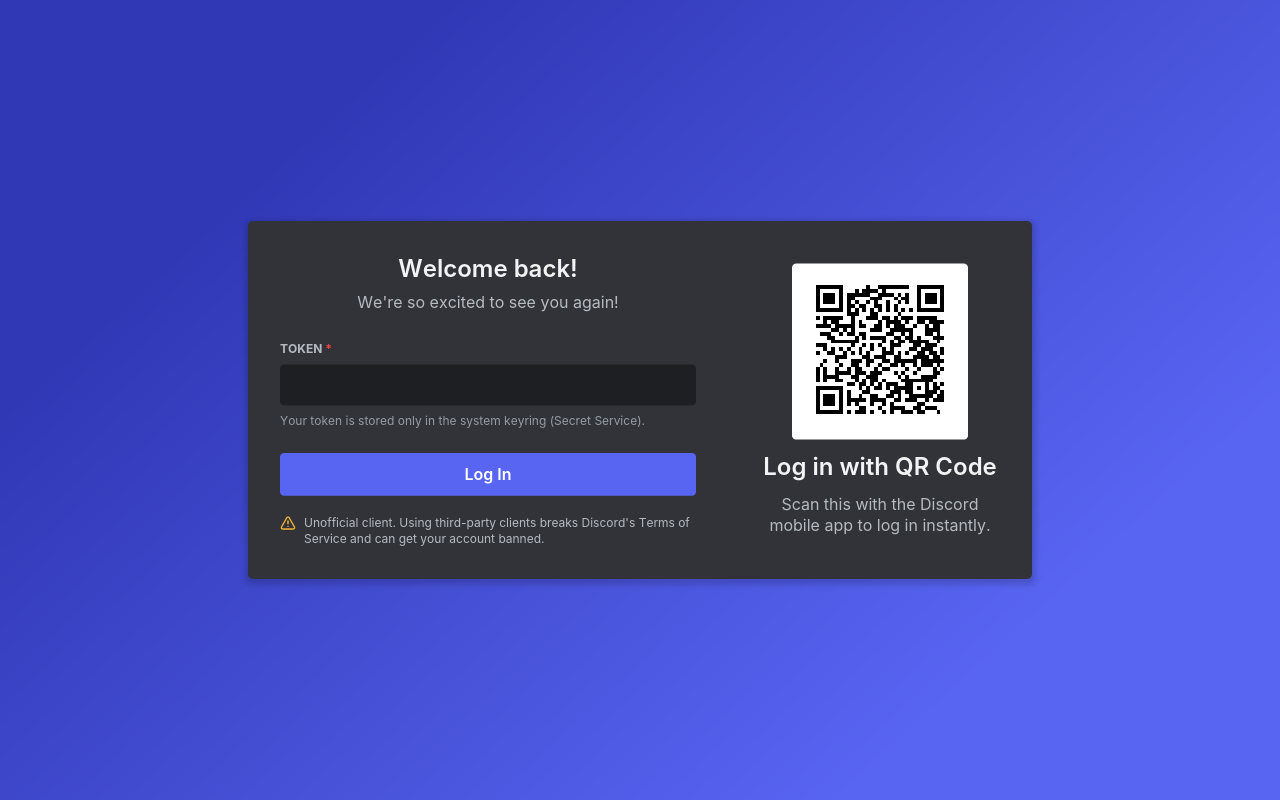
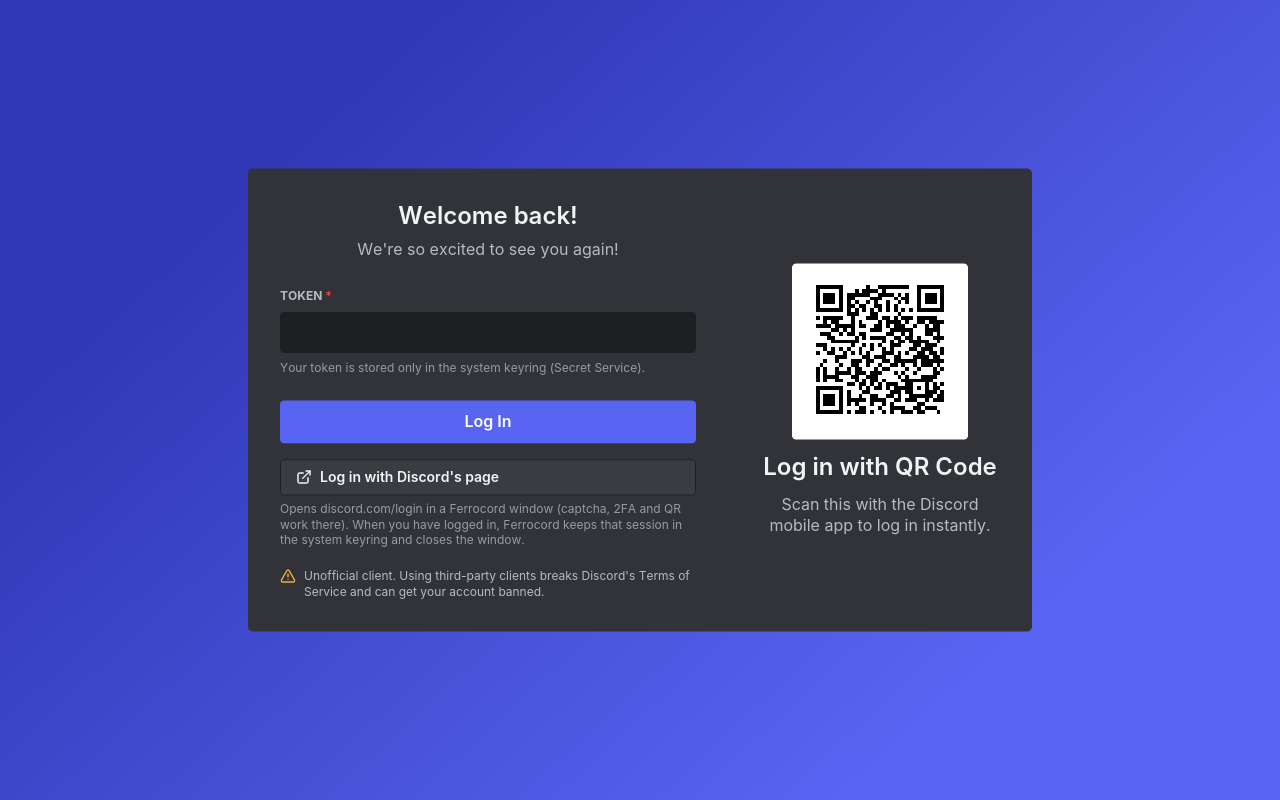
docs, ci: document the captcha root cause and ship the login helper
CI installs libwebkit2gtk-4.1-dev and checks that only ferrocord-login
links WebKitGTK; releases ship the helper on Linux and Windows; install.sh
installs it and warns when WebKitGTK 4.1 is missing. New mock screenshots
of the login states.

Claude-Session: https://claude.ai/code/session_011GZUAJAc8TohrBZJFGozGm

diff --git a/docs/protocol.md b/docs/protocol.md
@@ -38,7 +38,7 @@ states or remote auth.
 |---|---|---|---|
 | 0 | DISPATCH | ← | Tracks `s`; parsed by `types::parse_dispatch`. |
 | 1 | HEARTBEAT | ↔ | Sent every `heartbeat_interval`; answered immediately when the server asks. |
-| 2 | IDENTIFY | → | Token, `capabilities`, `properties` (honest: `browser = "Ferrocord"`), presence. |
+| 2 | IDENTIFY | → | Token, `capabilities`, `properties` (honest: `browser = "Ferrocord"`; same object as `X-Super-Properties`), presence. |
 | 3 | PRESENCE_UPDATE | → | Own status (`online`/`idle`/`dnd`/`invisible`); also saved with `PATCH /users/@me/settings`. |
 | 14 | GUILD_SUBSCRIPTIONS | → | Member list ranges `{guild_id, typing, threads, channels: {id: [[0,99]]}}`, sent while the member sidebar is open. |
 | 6 | RESUME | → | `{ token, session_id, seq }` on the `resume_gateway_url`. |
@@ -107,7 +107,26 @@ so no ISO-8601 parsing is needed on the hot path.
 
 Base: `https://discord.com/api/v9` (`FERROCORD_API_URL`). Header
 `Authorization: <token>` (user tokens have no `Bot ` prefix) and an honest
-`User-Agent: Ferrocord/<version>`.
+`User-Agent: Ferrocord/<version>`. Every request also carries the headers the
+official clients send (`net/identity.rs`), with honest values:
+
+| Header | Value |
+|---|---|
+| `X-Super-Properties` | base64 of the same JSON as IDENTIFY's `properties`: `os` (`Windows`/`Linux`), `browser: "Ferrocord"`, `device: ""`, `system_locale`, `browser_user_agent` (= the `User-Agent`), `browser_version`, `os_version` (kernel release on Linux), `release_channel: "stable"`, `client_version`. No `client_build_number`: Ferrocord does not claim to be Discord's build. |
+| `X-Discord-Locale` | system UI language (`en-US`, `sys-locale`) |
+| `X-Discord-Timezone` | IANA zone (`Europe/Madrid`, `iana-time-zone`), omitted if unknown |
+| `Cookie` | what Discord sets (`__dcfduid`, `__sdcfduid`, `__cfruid`), in-memory jar, never written to disk |
+
+While logged out, `GET /experiments` gives a `fingerprint` that the login
+calls send as `X-Fingerprint` (the official client does the same).
+
+**Captcha.** A 400 body with `captcha_key` becomes
+`Error::CaptchaRequired(CaptchaChallenge)` (`net/captcha.rs`: `captcha_key`,
+`captcha_sitekey`, `captcha_service`, `captcha_rqdata`, `captcha_rqtoken`,
+`captcha_session_id`; lenient, size-capped, header-safe). A retry carries the
+user's solution as `X-Captcha-Key` plus `X-Captcha-Rqtoken` /
+`X-Captcha-Session-Id` (`CaptchaSolution::headers`), exactly the official
+client's retry. Ferrocord never solves a captcha and uses no solver service.
 
 | Call | Endpoint |
 |---|---|
@@ -123,7 +142,8 @@ Base: `https://discord.com/api/v9` (`FERROCORD_API_URL`). Header
 | Upload | `POST .../messages` `multipart/form-data`: `payload_json` + `files[n]`, streamed from disk with an explicit `Content-Length` |
 | Status | `PATCH /users/@me/settings {status}` |
 | Mark read | `POST /channels/{c}/messages/{m}/ack` `{ token: null }` |
-| QR ticket | `POST /users/@me/remote-auth/login` `{ ticket }` |
+| QR ticket | `POST /users/@me/remote-auth/login` `{ ticket }` with `X-Fingerprint` |
+| Fingerprint | `GET /experiments` (logged out) → `fingerprint` |
 | GIF picker | `GET /gifs/trending-gifs` / `GET /gifs/search?q=` with `media_format=mp4&provider=tenor&locale=en-US`; picking sends the Tenor `url` as text (shown back as a `gifv` embed) |
 | Sticker | `POST .../messages` `{ content: "", nonce, sticker_ids: [id] }` |
 | Media | CDN `avatars/`, `icons/`, `emojis/`, `stickers/{id}.png\|.gif?size=160`, attachment `proxy_url?width=&height=`; GIF picker previews from `media.tenor.com` (HTTPS, never with the token) |
@@ -162,9 +182,61 @@ it. Failures turn it red with "Message could not be delivered.".
 8. ← `cancel` when declined on the phone; the socket closes at `timeout_ms`.
 
 Client heartbeats are `{ "op": "heartbeat" }`. The protocol is implemented
-and tested end to end against a local mock (`tests/mock_remote_auth.rs`);
-it has **not** been verified against the real service (no account here),
-and Discord may require a captcha for the ticket exchange in some regions.
+and tested end to end against a local mock (`tests/mock_remote_auth.rs`).
+`v=2` and the `Origin` match the official web client.
+
+### Captcha on the QR login
+
+Users reported "QR login unavailable — Discord wants you to solve a captcha".
+The only REST call of the QR flow is the ticket exchange, so that is where
+Discord asks (the gateway itself cannot answer with a captcha). Before v0.12
+that request was much barer than the official client's: no
+`X-Super-Properties`, no `X-Fingerprint` (no `GET /experiments` first), no
+Discord cookies, no locale/time zone: all signals Discord's risk scoring
+uses on the request that creates a new session. Those are now sent (above).
+Discord can still demand a captcha (new IP, VPN, account history), so:
+
+1. `RaEvent::CaptchaRequired` replaces the dead-end error;
+2. the app opens **Discord's own login page** (§4.1) automatically. The ticket
+   is bound to the QR socket and the challenge only works on discord.com, so
+   the user finishes there (scan again, or email + password) and solves the
+   captcha Discord shows.
+
+### 4.1 Log in with Discord's page (`auth/web_login.rs`, `ferrocord-login`)
+
+Also a button on the login screen. The `ferrocord-login` helper (a separate
+binary: the app links no browser engine) opens `https://discord.com/login` in
+the system webview via `wry`/`tao`: WebView2 on Windows, WebKitGTK 4.1 on
+Linux. Options considered:
+
+| Option | Verdict |
+|---|---|
+| (a) our own page with the hCaptcha widget (Discord's sitekey + rqdata) in a webview | Rejected: hCaptcha only runs on the sitekey's allowed domains; a `file://`, custom-scheme or `127.0.0.1` page fails its hostname check, and making it pass would mean faking the origin. |
+| (c) the same page in the system browser on a loopback callback | Rejected for the same reason (localhost is not Discord's domain). |
+| (b) Discord's own login page in a webview | **Chosen**: the user sees exactly Discord's pages; captcha, 2FA, passkeys and its QR code all work as in a browser, with no Ferrocord code in the loop. |
+
+* Profile: incognito, inside a fresh `0700` temp directory
+  (`FERROCORD_LOGIN_DATA_DIR`); the app wipes it after the helper exits (with
+  retries: WebView2 child processes hold files briefly).
+* Navigation: top-level HTTPS only; pop-ups refused. The browser's own
+  User-Agent is untouched.
+* Token: a document-start script, active only in the top-level
+  `https://discord.com` document, keeps a reference to the page's
+  `localStorage` and posts the `token` the page stores after the user logged
+  in, once, over wry IPC. The helper re-checks the sender URL and the token
+  shape, prints it on its stdout pipe and exits. The script only reads.
+* App side: the token is validated with `GET /users/@me` and stored only in
+  the keyring, like a QR login.
+* Wire format (stdout lines): `{"type":"ready"}`, `{"type":"token","token"}`,
+  `{"type":"closed"}`, `{"type":"error","code":"no-webview"|"failed","message"}`.
+* Missing engine: Linux loader errors (`libwebkit2gtk-4.1.so.0`, exit 127)
+  and WebView2 creation errors become "needs WebKitGTK 4.1 / WebView2" with
+  package names; QR login keeps working.
+
+Verified in CI: parsing, headers, retry headers, the state machine and the
+helper protocol (with fake helpers), and that only `ferrocord-login` links
+WebKitGTK. Needs a real account: Discord's page, its captcha and the token
+hand-over.
 
 ## 5. Read states, unread and mentions (`app/state.rs`)
 

diff --git a/README.md b/README.md
@@ -55,15 +55,20 @@ Expand-Archive ferrocord-*-windows-x86_64.zip .
 .errocord-*-windows-x86_64errocord.exe
 ```
 
-The token is stored in Windows Credential Manager. The Windows build has no
+The zip has `ferrocord.exe` and `ferrocord-login.exe` (Discord's login page in
+WebView2); keep them together. The token is stored in Windows Credential
+Manager. The Windows build has no
 tray icon, single-instance lock or autostart yet, and notification clicks do
 not open the channel. To build it yourself install Rust (MSVC toolchain) and
 run `cargo build --release`.
 
 ## Features
 
-- Token login (token stored only in the OS keyring) and QR-code login
-  (remote auth) using the official mobile app.
+- QR-code login (remote auth) using the official mobile app; "Log in with
+  Discord's page" (discord.com/login in a system webview window, where Discord
+  shows its own captcha, 2FA and QR prompts; opens on its own when Discord
+  asks for a captcha); token login. The session is stored only in the OS
+  keyring.
 - Server rail with unread pills and mention badges, channel list with
   categories, direct messages and group DMs.
 - Message history with Discord markdown (bold, italic, underline, strike,
@@ -92,9 +97,13 @@ run `cargo build --release`.
 
 Requirements: Rust stable (1.88+), and on Linux `pkg-config`, `cmake` and a
 C/C++ compiler (the H.264 decoder is built from source), `libssl-dev`,
-`libdbus-1-dev`, `libxkbcommon-dev`, `libwayland-dev`, `libasound2-dev`.
-`cargo build` builds both `ferrocord` and `ferrocord-player`; the helper must
-sit next to the app (use `--no-default-features` to build without video).
+`libdbus-1-dev`, `libxkbcommon-dev`, `libwayland-dev`, `libasound2-dev`,
+`libwebkit2gtk-4.1-dev` (login helper only).
+`cargo build` builds `ferrocord`, `ferrocord-player` and `ferrocord-login`; the
+helpers must sit next to the app (`--no-default-features` builds neither).
+`ferrocord-login` shows Discord's login page in the system webview: WebView2 on
+Windows (built into Windows 11), WebKitGTK 4.1 on Linux (`libwebkit2gtk-4.1-0`).
+Only the helper links the browser engine; it runs only while you log in.
 
 ```sh
 cargo build --release

diff --git a/LESSONS.md b/LESSONS.md
@@ -42,3 +42,6 @@ Things learned while building Ferrocord that are worth remembering.
 - **text_editor** (multi-line composer): bind Enter via `key_binding` (`Binding::Custom` to send, `Binding::Enter` for Shift+Enter); the stock Up/Enter keys are captured, so the "Up edits last message" shortcut must be a binding too. `text_editor::Cursor` columns are *byte* offsets (a char count panics in cosmic-text and poisons the global font system for every later test). `window::screenshot` replays the last frame, so text set programmatically right before it may not appear: use a real run with xdotool for composer screenshots.
 - **Emoji**: the default font has no colour glyphs. Unicode emoji go in their own spans with the "Noto Color Emoji" family (`ui::emoji_font`, grapheme-cluster segmentation); the bundled font is loaded only when no system copy exists. To test without the system font: `unshare -m` and bind-mount an empty dir over its directory.
 - **Self-playing widgets**: a custom widget can animate without app ticks by handling `window::Event::RedrawRequested(now)` in `update` (store `now` in its tree state, draw from it) and calling `shell.request_redraw_at(next_frame)`; `view()` never runs per frame and tiny-skia's damage tracking repaints only the widget (`ui::anim_image`). Check `layout.bounds().intersects(viewport)` so off-screen widgets stop asking.
+- **Captcha on login**: hCaptcha only runs on its sitekey's domains, so Discord's challenge cannot be rendered on a page of our own (file, custom scheme, loopback) without faking the origin. Showing `https://discord.com/login` itself in the system webview (`ferrocord-login`, `wry`) lets Discord run its own captcha; the page's token is read from its `localStorage` by a document-start script (Discord deletes the global later, so keep a reference at document start).
+- A helper spawned from a libtest binary (fake helpers in tests) starts its stdout after `test name ... ` without a newline: print a newline first, and have line parsers ignore non-JSON lines.
+- `reqwest` needs the `cookies` feature for `cookie_store(true)`; Discord's `__dcfduid`/`__sdcfduid` come back on `GET /experiments`.

diff --git a/CLAUDE.md b/CLAUDE.md
@@ -9,7 +9,7 @@ Video (camera / Go Live) is not implemented yet: see `docs/voice.md` §6.
 
 ## Commands
 - `cargo run -- --mock` — run with mock data (no network, in-memory stores).
-- `cargo run -- --mock --screenshot <login|guild|dms|embeds|voice|call|incoming-call> out.png` — render a screen to PNG
+- `cargo run -- --mock --screenshot <login|login-captcha|login-web|login-web-failed|guild|dms|embeds|voice|call|incoming-call> out.png` — render a screen to PNG
   (headless: `ICED_BACKEND=tiny-skia xvfb-run -a -s "-screen 0 1280x800x24" ...`).
 - `cargo fmt --check`, `cargo clippy --all-targets -- -D warnings`, `cargo test`.
 - `cargo build --release`.
@@ -58,6 +58,9 @@ CI (`.github/workflows/ci.yml`) runs fmt, clippy and tests on ubuntu-latest.
 - File dialog: `rfd` (xdg-portal). Clipboard files/images: `arboard`.
 - Keyring tests must use `MemoryStore` (no Secret Service in CI).
 - `main` defaults `ICED_BACKEND=tiny-skia` (wgpu costs 100-200 MB RSS).
+- Login captcha: Discord's page opens in the `ferrocord-login` helper (`wry`; WebView2 / WebKitGTK 4.1,
+  build needs `libwebkit2gtk-4.1-dev`). Only the helper may link the webview (CI ldd check). Never render
+  hCaptcha on our own page or fake an origin; never solve captchas. REST identity headers live in `net/identity.rs`.
 - Voice: static libopus (needs `cmake`), `cpal` (`libasound2-dev`); the voice subscription exists
   only in a call. DAVE is mandatory (close 4017); keep `davey` calls under `catch_unwind`.
 - Unicode emoji need the `Noto Color Emoji` span (`ui::emoji_font::emoji_text`/`emoji_runs`); `text_editor` (composer) cannot take spans and falls back to the loaded font. The bundled TTF (OFL) loads only if no system copy exists.

diff --git a/docs/architecture.md b/docs/architecture.md
@@ -251,10 +251,17 @@ streams run as `Subscription::run_with` keyed by a generation counter (the
 token is never hashed); bumping the counter reconnects, dropping the
 subscription disconnects.
 
+**Login helper.** "Log in with Discord's page" runs the `ferrocord-login`
+helper (`wry` + `tao`: WebView2 / WebKitGTK) as a `Subscription::run_with`
+keyed by `web_login_generation`; dropping it kills the helper and wipes its
+profile directory. QR captcha → `QrState::CaptchaRequired` + the helper opens
+automatically; `auth::WebLoginState` is the pure state machine. See
+`docs/protocol.md` §4.1.
+
 **Screens and navigation.**
 
 ```
-Splash (no cache, restoring) ──▶ Login ──(token / QR)──▶ Main
+Splash (no cache, restoring) ──▶ Login ──(QR / Discord's page / token)──▶ Main
                                    ▲                       │
                                    └──── logout / 4004 ────┘
 Main = Server rail │ Sidebar │ Chat pane
